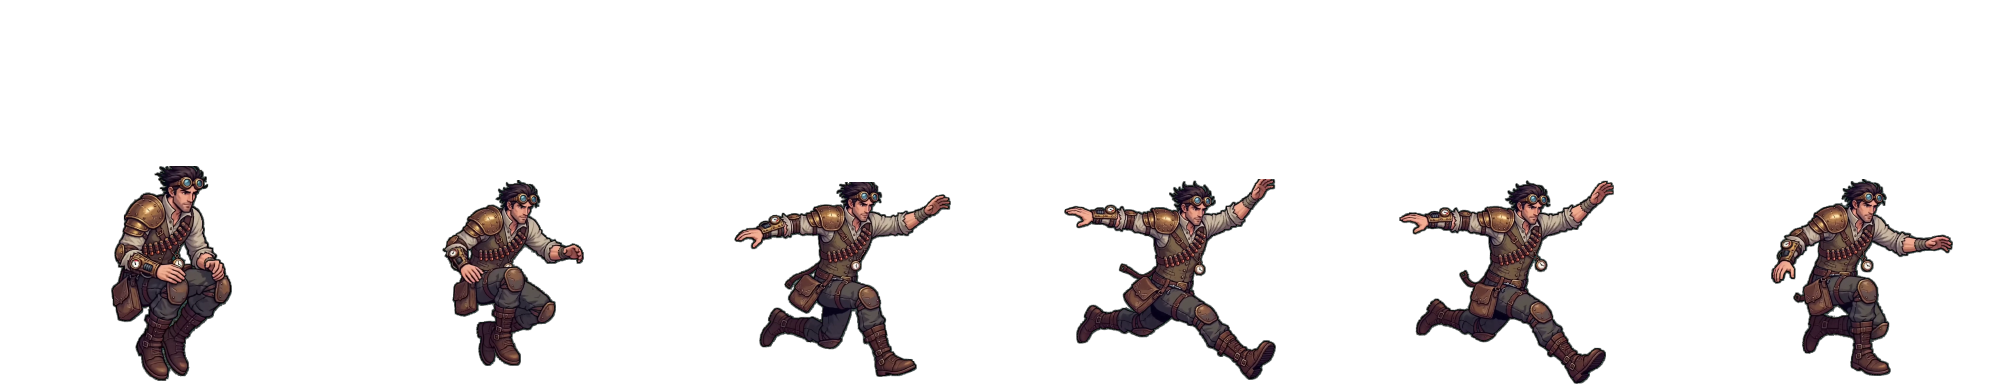
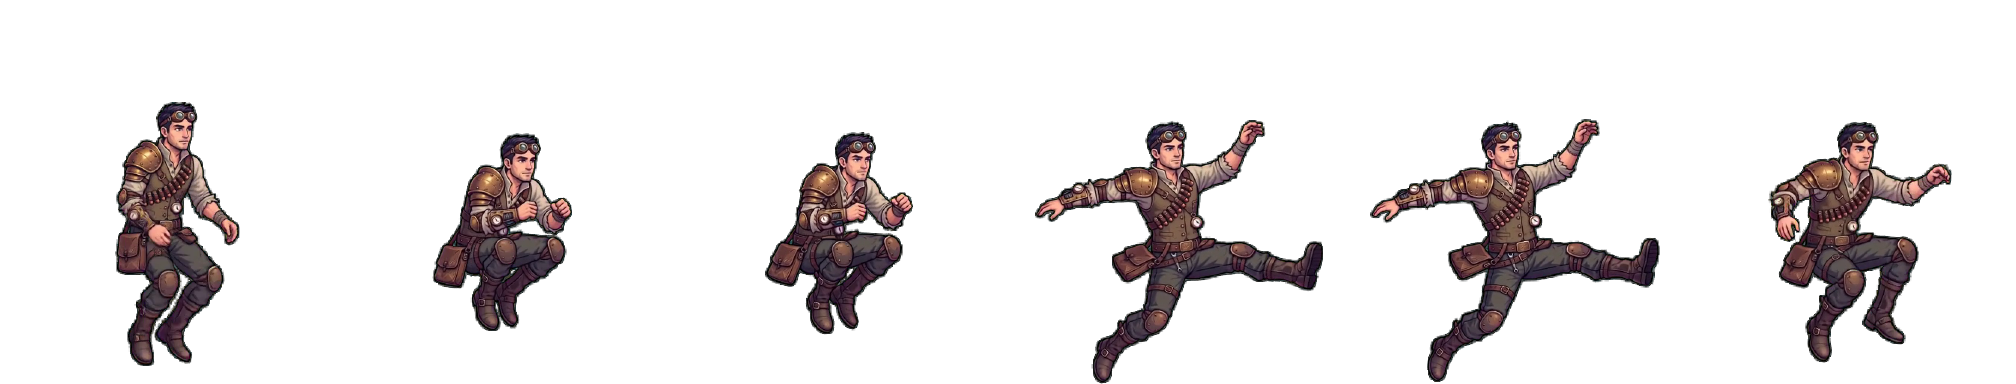
fix: the first jump clip in this project to pass G6
Inventory 2.1. Option 2 first, as instructed, and it failed usefully: CLIP_FILES
declared jump.mp4 while the paid jump-r2.mp4 sat on disk undeclared — the miss
the paragraph above that table had predicted in as many words. Switching it, G6
refused r2 on frame 0 with a top margin of zero. Running the same gate against
round 1 shows it fails too, on the right edge: the shipped jump is un-gated art
that predates the gate, exactly as the inventory said.

Four takes, three of which read as bad luck until the axes were tabled. Round 1
and r3 were shot 9:16 and cut at the right; r2 was shot 1:1 and cut at the top. A
standing figure is narrow and a jump is wide, so the narrow frame clips it every
time, and the square canvas that fixes that leaves the vertical unsolved. Neither
change works alone.

The prompt asked for margins and never named a size, so "plain green above his
head and below his boots" was satisfiable at any scale and the model oscillated
between the only two ways to satisfy it. The replacement names the size by
reference to the anchor, which is the one move STYLE.md section 6 says works on
this model: a named element beats a negation. motionAirborne's own header warned
that stronger instructions backfire, and this is not one.

Checked rather than assumed: UPRIGHT_IN_AIR is not under style-lock, which hashes
STYLE.md sections 2, 4 and 5 only.

On using the same character as the rest — r4 is shot from the same padded anchor
[…]

diff --git a/docs/qa/session-bugfix-tiers.md b/docs/qa/session-bugfix-tiers.md
@@ -981,3 +981,93 @@ A decision, not more analysis:
 ⚠ **`assets:build` was re-run during this investigation and is byte-identical** — `git status` clean
 across `public/assets/`. That incidentally verifies 4.15's *"success is byte-identical PNGs"* claim,
 which nothing had checked.
+
+---
+
+## C1 / 2.1 — RESOLVED. The first jump clip in this project's history to pass G6
+
+**Status: FIXED.** Owner instruction: *"try 2, if it not fix do 1"* — option 2 was tried and refused;
+option 1 took two takes. **Total spend: 2 generations (~$2.38).**
+
+### Option 2 first, and it failed for a reason worth keeping
+
+`CLIP_FILES` declared `jump: 'jump.mp4'` while **`jump-r2.mp4` sat on disk undeclared** — and the
+paragraph directly above that table had predicted exactly this miss: *"once `jump-r2.mp4` lands
+beside it, an undeclared `file` would make the glob ambiguous."* It landed and the line was never
+switched, so every build since packed round 1 while the paid r2 went unused.
+
+Switching it and re-extracting: **G6 refused it** — frame 0, top margin **0 px**.
+
+⚠ Running the same gate against round 1 shows **it fails G6 too** (frame 1, right 0 px). The
+inventory's *"the sheet shipping today never passed G6 either"* is exact: today's jump is un-gated
+art that predates the gate.
+
+### The four takes, and why three read as random until they were tabled
+
+| take | anchor / ratio | G6 margins L/R/T/B | cut |
+|---|---|---|---|
+| `jump.mp4` (shipped since Phase 4) | unpadded 9:16 | 64 / **0** / 24 / 336 | RIGHT |
+| `jump-r2.mp4` | padded 1:1 | 252 / 204 / **0** / 58 | TOP |
+| `jump-r3.mp4` | unpadded 9:16 **+ size clause** | 74 / **0** / 96 / 246 | RIGHT |
+| **`jump-r4.mp4`** | **padded 1:1 + size clause** | — | **PASS** |
+
+**A standing figure is narrow; a jump is wide.** 9:16 suits idle, walk and run and cut the jump at the
+sides in *both* takes shot that way. r2 was the only take with real horizontal room and failed
+vertically instead. **Neither change works alone** — which is why three takes looked like bad luck.
+
+### The prompt fix, and why it is not "a stronger instruction"
+
+`motionAirborne.mjs` warned in its own header that two earlier regenerations backfired (one
+somersaulted *"straight through five explicit negations"*) and concluded *"the fix is NOT a stronger
+instruction in this paragraph."*
+
+The paragraph **asked for margins and never named a size** — *"plain green above his head and below
+his boots"* is satisfiable at any scale, so the model oscillated between the only two ways to satisfy
+it. The replacement **names the size by reference to the anchor**, which is the one move STYLE.md §6
+says works on this model: **a named element beats a negation.**
+
+⚠ Verified **not** under `style-lock.test.ts`, which hashes STYLE.md §2/§4/§5 only — so this was not
+an approval checkpoint, and that was checked rather than assumed.
+
+### On the instruction that it use the same character as the rest
+
+r4 is shot from **the same padded courier anchor `attack`, `death` and `fall` already use** — same
+PNG, same sha256, same fill — and packs at the **same `scale: 0.6`** they do. Identity is pinned by
+the shared anchor rather than by prompt wording, which matters: `jump.prompt.txt`'s IDENTITY clause
+was *already byte-identical* to `idle.prompt.txt`'s while round 1 came back off-model, so wording
+alone demonstrably does not buy it.
+
+### The result, measured
+
+| | round 1 (shipped) | **r4** | idle |
+|---|---|---|---|
+| drawn height | 199.7 px — **69.3 %** of idle | **238.8 px — 82.9 %** | 288.1 |
+| G6 | FAIL (right edge) | **PASS** | PASS |
+| anchor / scale | unpadded, 0.237 | padded, **0.6** | unpadded, 0.237 |
+
+82.9 % sits beside `fall`'s 80.0 % — an airborne pose slightly shorter than a stand is the expected
+sign, and it is the same consistency check `fall`'s own scale note uses.
+
+### The scale, derived by the documented rule and NOT by the tool's number
+
+`--derive-scale` printed **0.72361809**. ⚠ **Pasting it would have been a bug**, for exactly the
+reason `character-bounds.json` records for `death` (1.195) and `fall` (0.748): a mean across a
+deforming action is not a standing-height measurement, and 0.7236 would have drawn the courier **21 %
+larger in the air than on the ground**.
+
+Jump has no upright frame at all, so `death`'s by-hand rule does not transfer either. The number comes
+from the one standing measurement this anchor has — `attack`'s independently-derived 480 source px,
+**288 / 480 = 0.6** — with the same consistency check `fall` uses: jump's tallest frame (440) is
+**91.7 %** of 480, against fall's 96.3 %.
+
+⚠ **No automated gate covers this number**: `sprite-size-consistency.test.ts` deliberately does not
+measure `brass-courier`, so it is verified **by eye in play and nowhere else**. Unchanged by this
+work, and stated rather than glossed.
+
+### Bookkeeping
+
+`SUPERSEDED_CLIPS.jump` now lists all three predecessors (kept, never deleted — paid,
+non-regenerable input). Suite **2256 / 0**, all 8 courier clips PASS, `verify-dist ok`.
+
+⚠ **2.2 (`fall` judders) is NOT closed.** `fall` already ran its r2 and packs at 80.0 %; its 74 px
+frame-to-frame height spread is untouched by this work and remains open.
